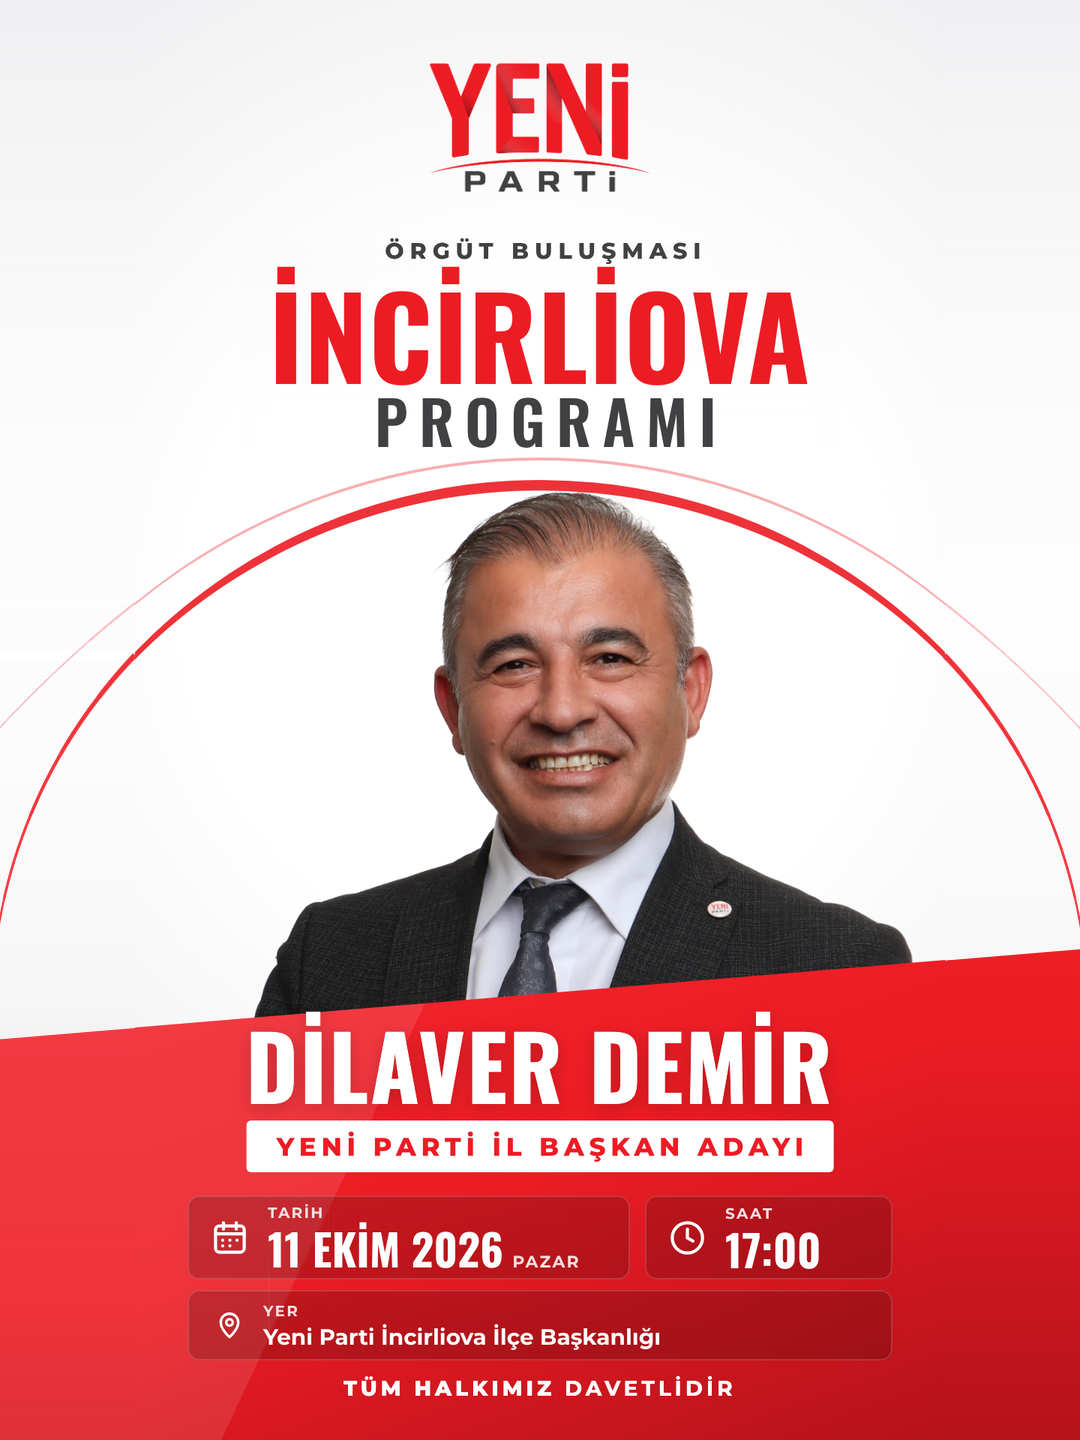
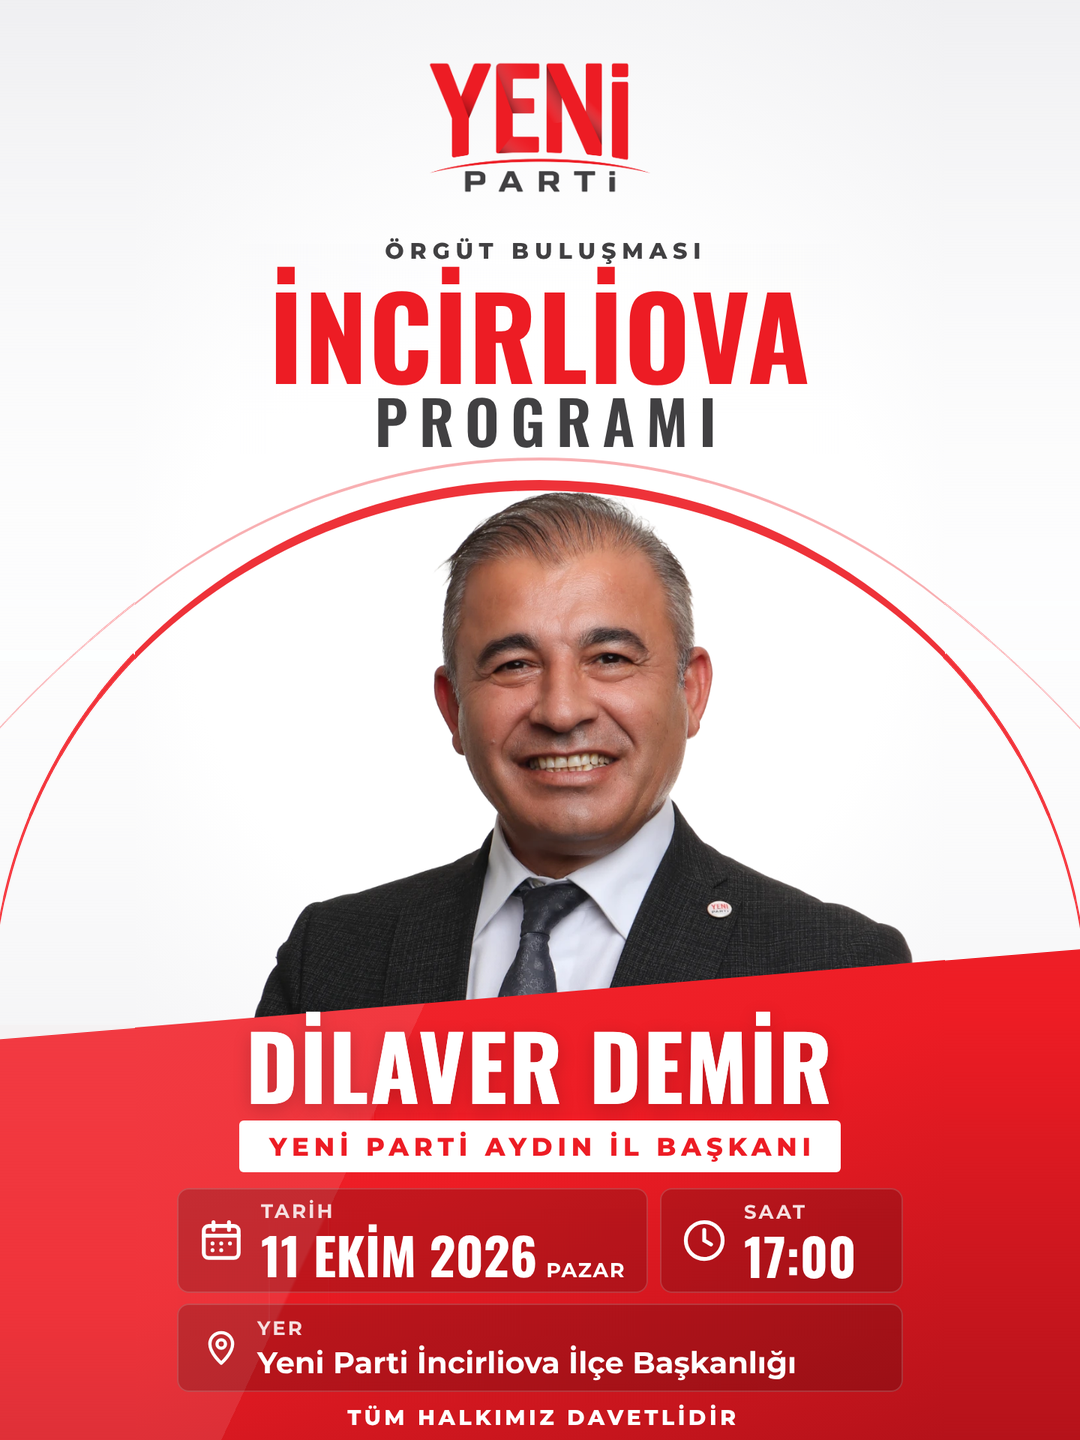
İncirliova: bilgi kutuları büyütüldü, unvan Aydın İl Başkanı yapıldı
Claude-Session: https://claude.ai/code/session_01SatttGbgBLoCnk9KGLypWv

Changed region(s): [[0.1528, 0.7812, 0.8556, 1.0]]

diff --git a/tasarim/kisisel/incirliova-orgut/incirliova-orgut.html b/tasarim/kisisel/incirliova-orgut/incirliova-orgut.html
@@ -22,11 +22,11 @@ body{position:relative;background:url(zemin.png) 0 0/1080px 1920px no-repeat}
 .kutu{position:absolute;box-sizing:border-box;border-radius:16px;
   background:rgba(0,0,0,.18);box-shadow:inset 0 0 0 2px rgba(255,255,255,.16);
   display:flex;align-items:center;gap:25px;padding-left:31px;color:#fff}
-.kutu svg{flex:none;width:51px;height:51px}
-.kutu small{display:block;font:20px M7;letter-spacing:.114em;color:var(--etiket);margin-bottom:6px}
-.kutu b{font:58px/1 O7;font-weight:normal}
-.kutu .gun{font:22px M7;letter-spacing:.1em;color:var(--etiket);margin-left:12px}
-.kutu .yer{font:29.5px/1.1 M7}
+.kutu svg{flex:none;width:62px;height:62px}
+.kutu small{display:block;font:26px M7;letter-spacing:.114em;color:var(--etiket);margin-bottom:8px}
+.kutu b{font:68px/1 O7;font-weight:normal}
+.kutu .gun{font:27px M7;letter-spacing:.06em;color:#fff;margin-left:12px}
+.kutu .yer{font:40px/1.1 M7}
 </style>
 <body style="--t1:var(--T1,316px);--t2:var(--T2,332px);--t3:var(--T3,500px)">
 
@@ -34,27 +34,28 @@ body{position:relative;background:url(zemin.png) 0 0/1080px 1920px no-repeat}
 <div class="m sehir">İNCİRLİOVA</div>
 <div class="m program">PROGRAMI</div>
 
-<div class="hap"><span>YENİ PARTİ İL BAŞKAN ADAYI</span></div>
+<div class="hap"><span>YENİ PARTİ AYDIN İL BAŞKANI</span></div>
 
-<div class="kutu" style="left:70px;top:1594px;width:590px;height:112px">
+<div class="kutu" style="left:56px;top:1584px;width:628px;height:140px;padding-left:28px;gap:22px">
   <svg viewBox="0 0 24 24" fill="none" stroke="#fff" stroke-width="2" stroke-linecap="round" stroke-linejoin="round">
     <rect x="3" y="4.5" width="18" height="16.5" rx="2.5"/><path d="M3 9.5h18M8 2.5v4M16 2.5v4"/>
     <path d="M7.5 13.5h.01M12 13.5h.01M16.5 13.5h.01M7.5 17h.01M12 17h.01"/>
   </svg>
-  <div><small>TARİH</small><b>11 EKİM 2026</b><span class="gun">PAZAR</span></div>
+  <div style="white-space:nowrap"><small>TARİH</small><b>11 EKİM 2026</b><span class="gun">PAZAR</span></div>
 </div>
 
-<div class="kutu" style="left:680px;top:1594px;width:330px;height:112px">
+<div class="kutu" style="left:700px;top:1584px;width:324px;height:140px;padding-left:28px;gap:22px">
   <svg viewBox="0 0 24 24" fill="none" stroke="#fff" stroke-width="2" stroke-linecap="round">
     <circle cx="12" cy="12" r="9.5"/><path d="M12 6.5V12l3.5 2"/>
   </svg>
   <div><small>SAAT</small><b>17:00</b></div>
 </div>
 
-<div class="kutu" style="left:70px;top:1720px;width:940px;height:94px">
-  <svg viewBox="0 0 24 24" fill="none" stroke="#fff" stroke-width="2" stroke-linecap="round" stroke-linejoin="round" style="width:40px;height:46px;margin-left:5px">
+<div class="kutu" style="left:56px;top:1738px;width:968px;height:118px;padding-left:28px;gap:22px">
+  <svg viewBox="0 0 24 24" fill="none" stroke="#fff" stroke-width="2" stroke-linecap="round" stroke-linejoin="round" style="width:52px;height:60px;margin-left:5px">
     <path d="M12 21.5s-7-6.2-7-11.8a7 7 0 0 1 14 0c0 5.6-7 11.8-7 11.8z"/><circle cx="12" cy="9.7" r="2.6"/>
   </svg>
   <div><small>YER</small><span class="yer">Yeni Parti İncirliova İlçe Başkanlığı</span></div>
 </div>
+<div class="m" style="top:1872px;font:28.6px M8;letter-spacing:.156em;padding-left:.156em;color:#fff">TÜM HALKIMIZ DAVETLİDİR</div>
 </body></html>
